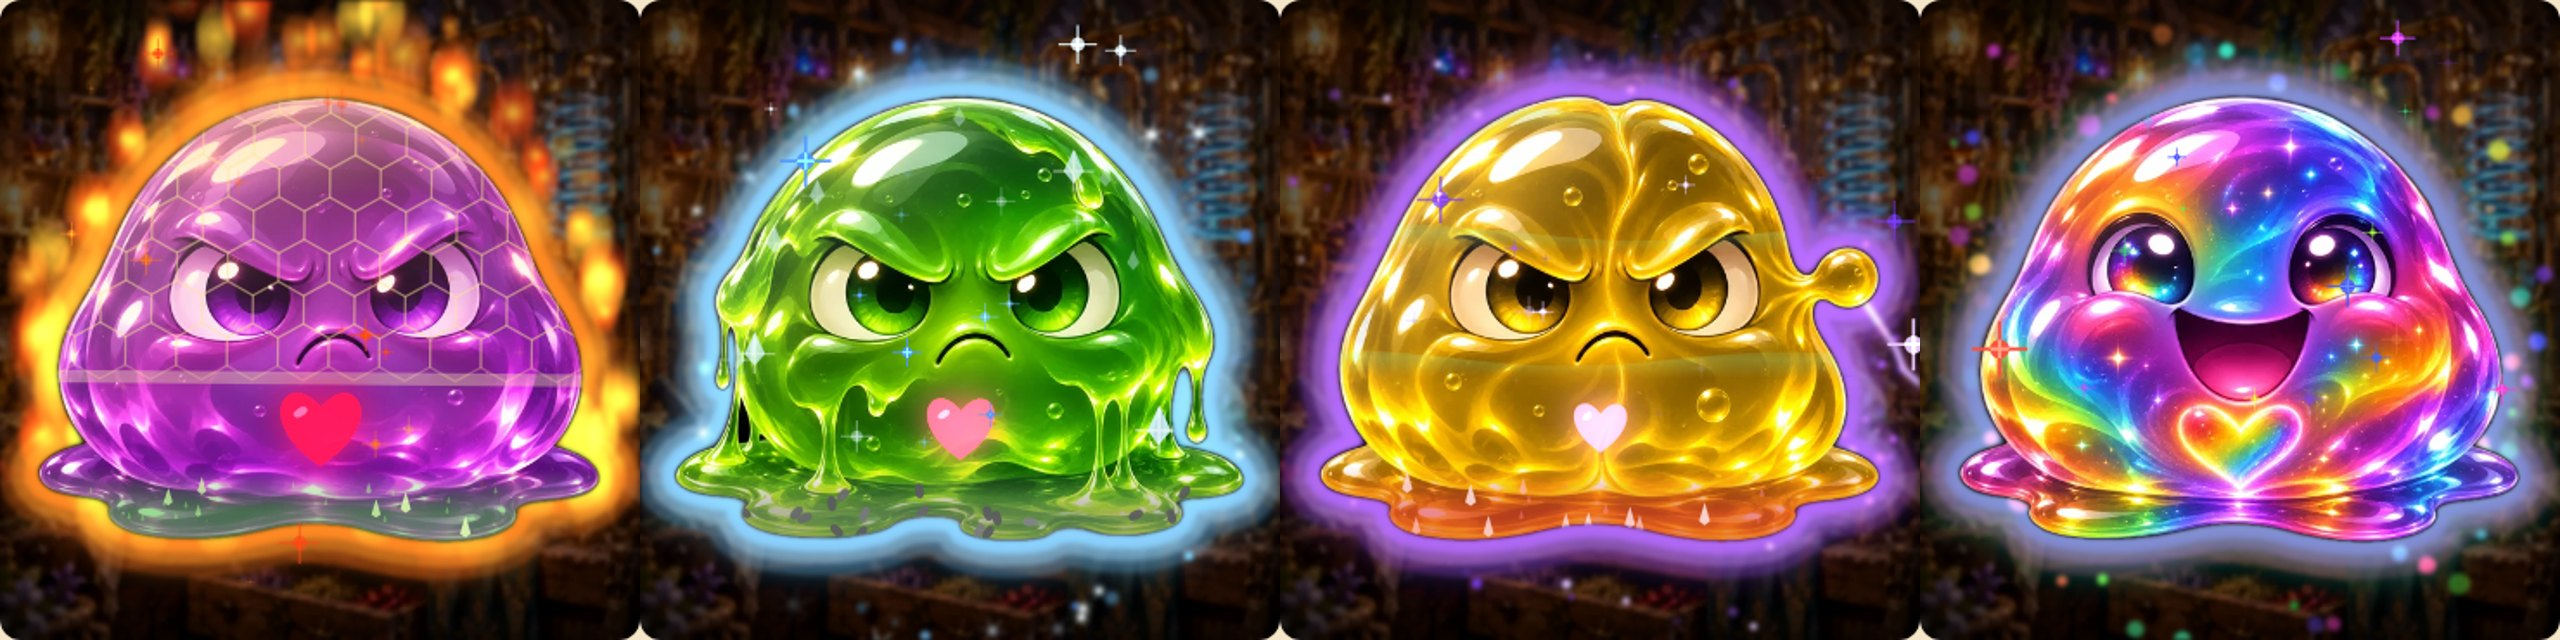
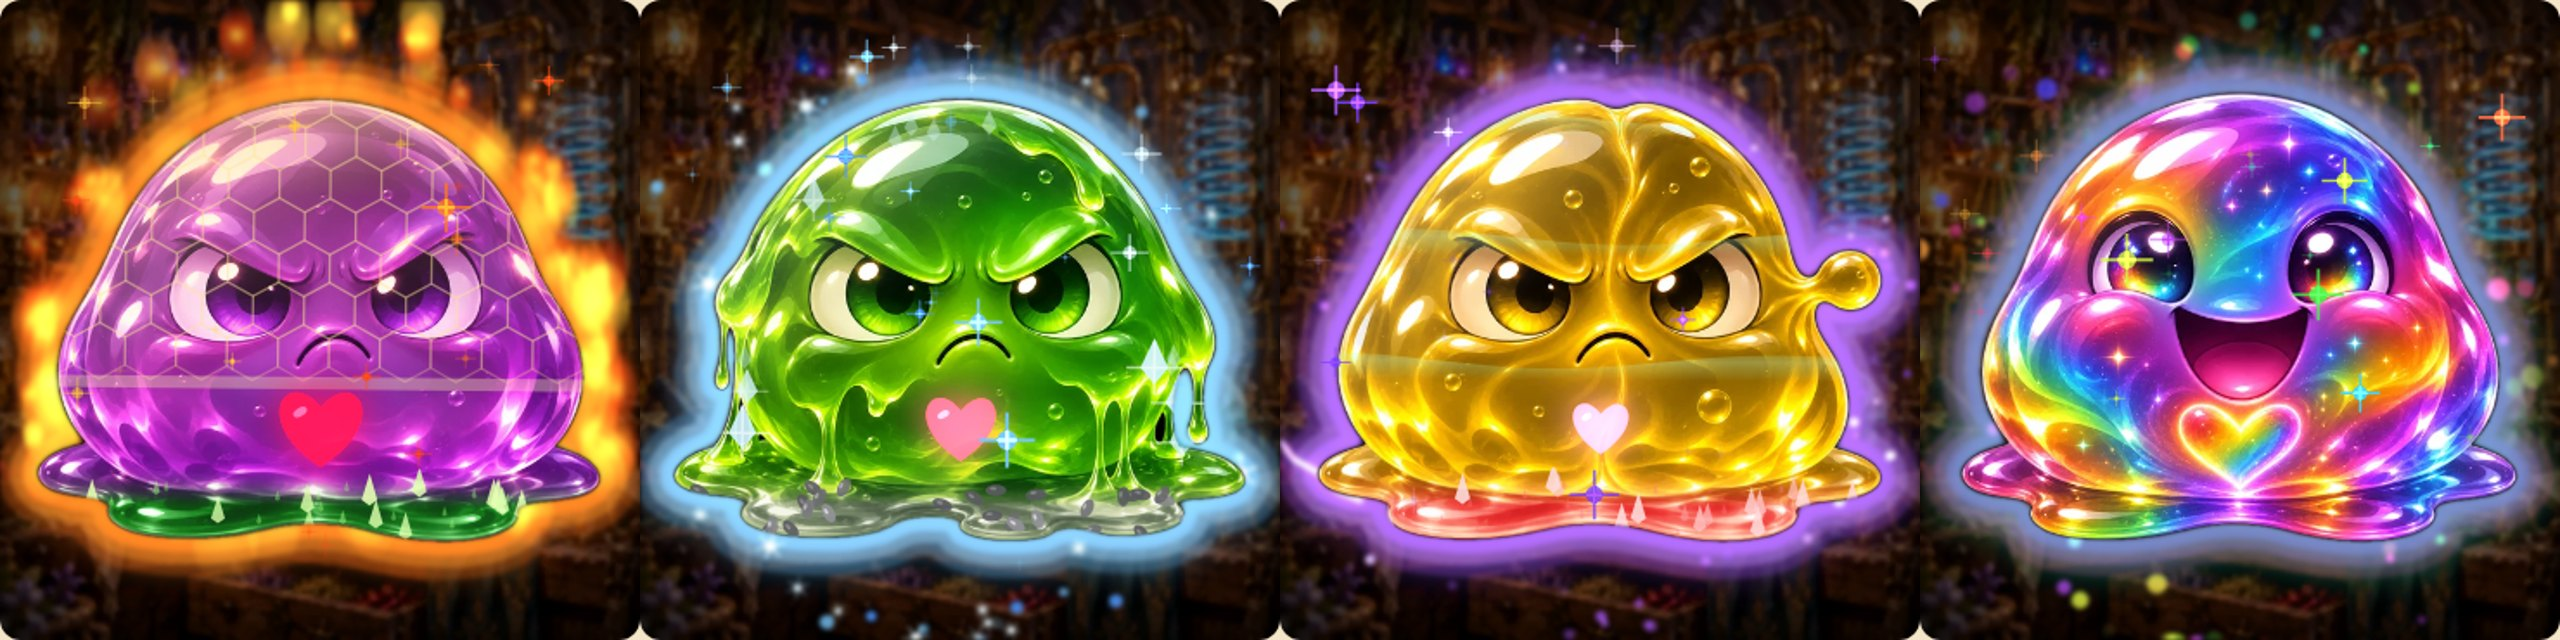
Zoltan's Flask: ichor recolours the puddle itself; stronger skin effects; no-cache
Claude-Session: https://claude.ai/code/session_01QqMC3jV4Jm9bLjV1D99fiy

diff --git a/oneshots/this-and-that/flask-game/index.html b/oneshots/this-and-that/flask-game/index.html
@@ -1,6 +1,6 @@
 <!DOCTYPE html>
 <html lang="en">
-<head>
+<head><meta http-equiv="Cache-Control" content="no-cache, no-store, must-revalidate"><meta http-equiv="Pragma" content="no-cache">
 <meta charset="utf-8">
 <meta name="viewport" content="width=device-width, initial-scale=1">
 <title>Zoltan's Flask: Experiment 47</title>
@@ -211,17 +211,17 @@ const FX=(()=>{const P=2.6;let S=null,raf=0;
     for(let y=W*.14;y<W*.6;y+=r*1.5)for(let x=W*.08+((y/(r*1.5))%2)*r*.87;x<W*.94;x+=r*1.73){c.beginPath();for(let k=0;k<6;k++){const an=k*Math.PI/3+Math.PI/6;c[k?'lineTo':'moveTo'](x+Math.cos(an)*r,y+Math.sin(an)*r)}c.closePath();c.stroke()}
     const gl=(t*0.4)%1.4-0.2;c.fillStyle='rgba(255,240,180,.35)';c.fillRect(0,W*(.12+gl*.5),W,W*.02);c.restore()}
   if(st.skin==='crystal'){inside();S.cry=S.cry||Array.from({length:16},()=>{const q=S.sil.pts[Math.floor(Math.random()*S.sil.pts.length)];return [q[0]+(S.sil.cx-q[0])*(.06+Math.random()*.12),q[1]+(S.sil.cy-q[1])*(.06+Math.random()*.12),Math.random()*6]}).filter(q=>q[1]<.72);
-    for(const [x,y,o] of S.cry){const tw=Math.max(0,Math.sin(t*2.2+o)),r=W*.035*(.6+tw*.6);c.fillStyle=`rgba(210,245,255,${.4+.55*tw})`;c.beginPath();c.moveTo(x*W,y*W-r);c.lineTo(x*W+r*.45,y*W);c.lineTo(x*W,y*W+r*.55);c.lineTo(x*W-r*.45,y*W);c.closePath();c.fill();
+    for(const [x,y,o] of S.cry){const tw=Math.max(0,Math.sin(t*2.2+o)),r=W*.04*(.6+tw*.6);c.fillStyle=`rgba(210,245,255,${.4+.55*tw})`;c.beginPath();c.moveTo(x*W,y*W-r);c.lineTo(x*W+r*.45,y*W);c.lineTo(x*W,y*W+r*.55);c.lineTo(x*W-r*.45,y*W);c.closePath();c.fill();
      c.strokeStyle=`rgba(255,255,255,${.6*tw})`;c.lineWidth=1.5;c.beginPath();c.moveTo(x*W-r*.9,y*W);c.lineTo(x*W+r*.9,y*W);c.moveTo(x*W,y*W-r*.9);c.lineTo(x*W,y*W+r*.9);c.stroke()}c.restore()}
-  if(st.skin==='flexible'){inside();for(let k=0;k<3;k++){const yy=(.2+k*.17+Math.sin(t*1.8+k)*.03)*W;const fg=c.createLinearGradient(0,yy-W*.03,0,yy+W*.03);fg.addColorStop(0,'rgba(170,255,170,0)');fg.addColorStop(.5,'rgba(170,255,170,.22)');fg.addColorStop(1,'rgba(170,255,170,0)');c.fillStyle=fg;c.beginPath();c.moveTo(0,yy);for(let i=0;i<=30;i++){const x=i/30;c.lineTo(x*W,yy+Math.sin(t*3+x*9+k)*W*.012)}c.lineTo(W,yy+W*.04);c.lineTo(0,yy+W*.04);c.fill()}c.restore()}
+  if(st.skin==='flexible'){inside();for(let k=0;k<3;k++){const yy=(.2+k*.17+Math.sin(t*1.8+k)*.03)*W;const fg=c.createLinearGradient(0,yy-W*.03,0,yy+W*.03);fg.addColorStop(0,'rgba(170,255,170,0)');fg.addColorStop(.5,'rgba(200,255,200,.32)');fg.addColorStop(1,'rgba(170,255,170,0)');c.fillStyle=fg;c.beginPath();c.moveTo(0,yy);for(let i=0;i<=30;i++){const x=i/30;c.lineTo(x*W,yy+Math.sin(t*3+x*9+k)*W*.012)}c.lineTo(W,yy+W*.04);c.lineTo(0,yy+W*.04);c.fill()}c.restore()}
   if(st.skin==='rainbow'&&!allR){inside();c.globalAlpha=.22;const rg=c.createLinearGradient(0,0,W,W);for(let i=0;i<=6;i++)rg.addColorStop(i/6,rh(i*60));c.fillStyle=rg;c.fillRect(0,0,W,W);c.restore()}
   // ichor: soaks into the puddle at its base
   if(st.ichor&&st.ichor!=='rainbow'){inside();c.beginPath();c.rect(0,W*.73,W,W*.2);c.clip();
-    const cc={hard:'120,120,125',spikey:'70,190,60',sharp:'220,40,50'}[st.ichor];const ig=c.createLinearGradient(0,W*.73,0,W*.8);ig.addColorStop(0,`rgba(${cc},0)`);ig.addColorStop(1,`rgba(${cc},.55)`);c.fillStyle=ig;c.fillRect(0,W*.73,W,W*.2);
-    S.gl=S.gl||Array.from({length:22},()=>[.1+Math.random()*.8,.76+Math.random()*.08,Math.random()*6]);
+    const cc={hard:'125,125,130',spikey:'60,200,60',sharp:'235,30,45'}[st.ichor];const ig=c.createLinearGradient(0,W*.72,0,W*.79);ig.addColorStop(0,`rgba(${cc},0)`);ig.addColorStop(1,`rgba(${cc},1)`);const o=S.ichC||(S.ichC=document.createElement('canvas'));o.width=o.height=Math.round(W);const ox=o.getContext('2d');ox.drawImage(im,0,0,W,W);ox.globalCompositeOperation=st.ichor==='hard'?'saturation':'color';ox.fillStyle=ig;ox.fillRect(0,W*.72,W,W*.2);ox.globalCompositeOperation='destination-in';ox.drawImage(im,0,0,W,W);ox.globalCompositeOperation='destination-in';const mg=ox.createLinearGradient(0,W*.72,0,W*.79);mg.addColorStop(0,'rgba(0,0,0,0)');mg.addColorStop(1,'rgba(0,0,0,.85)');ox.fillStyle=mg;ox.fillRect(0,0,W,W);c.drawImage(o,0,0,W,W);
+    S.gl=S.gl||Array.from({length:30},()=>[.1+Math.random()*.8,.76+Math.random()*.08,Math.random()*6]);
     for(const [x,y,o] of S.gl){const tw=Math.max(0,Math.sin(t*2.5+o));
-      if(st.ichor==='hard'){c.fillStyle=`rgba(${90+tw*60},${90+tw*60},${95+tw*60},.9)`;c.beginPath();c.ellipse(x*W,y*W,W*.012,W*.007,o,0,7);c.fill()}
-      else{const r=W*.014*(.5+tw);c.fillStyle=st.ichor==='sharp'?`rgba(255,${120+tw*100},${120+tw*100},${.4+.5*tw})`:`rgba(${150+tw*80},255,${120+tw*60},${.4+.5*tw})`;c.beginPath();c.moveTo(x*W,y*W-r*1.4);c.lineTo(x*W+r*.4,y*W);c.lineTo(x*W,y*W+r*.3);c.lineTo(x*W-r*.4,y*W);c.closePath();c.fill()}}
+      if(st.ichor==='hard'){c.fillStyle=`rgba(${90+tw*60},${90+tw*60},${95+tw*60},.9)`;c.beginPath();c.ellipse(x*W,y*W,W*.016,W*.009,o,0,7);c.fill();c.fillStyle=`rgba(255,255,255,${.25+.4*tw})`;c.beginPath();c.ellipse(x*W-W*.004,y*W-W*.003,W*.005,W*.0025,o,0,7);c.fill()}
+      else{const r=W*.02*(.5+tw);c.fillStyle=st.ichor==='sharp'?`rgba(255,${120+tw*100},${120+tw*100},${.4+.5*tw})`:`rgba(${150+tw*80},255,${120+tw*60},${.4+.5*tw})`;c.beginPath();c.moveTo(x*W,y*W-r*1.4);c.lineTo(x*W+r*.4,y*W);c.lineTo(x*W,y*W+r*.3);c.lineTo(x*W-r*.4,y*W);c.closePath();c.fill()}}
     c.restore()}
   // heart, glowing through the jelly
   if(st.heart&&!allR){const hc=st.heart==='rainbow'?rh(0):{squishy:'#ff9cc0',puffy:'#ff5a7a',dense:'#d0103a'}[st.heart],sz={squishy:.045,puffy:.055,dense:.065,rainbow:.055}[st.heart],hb=1+0.14*Math.max(0,Math.sin(ph*2))**3;
